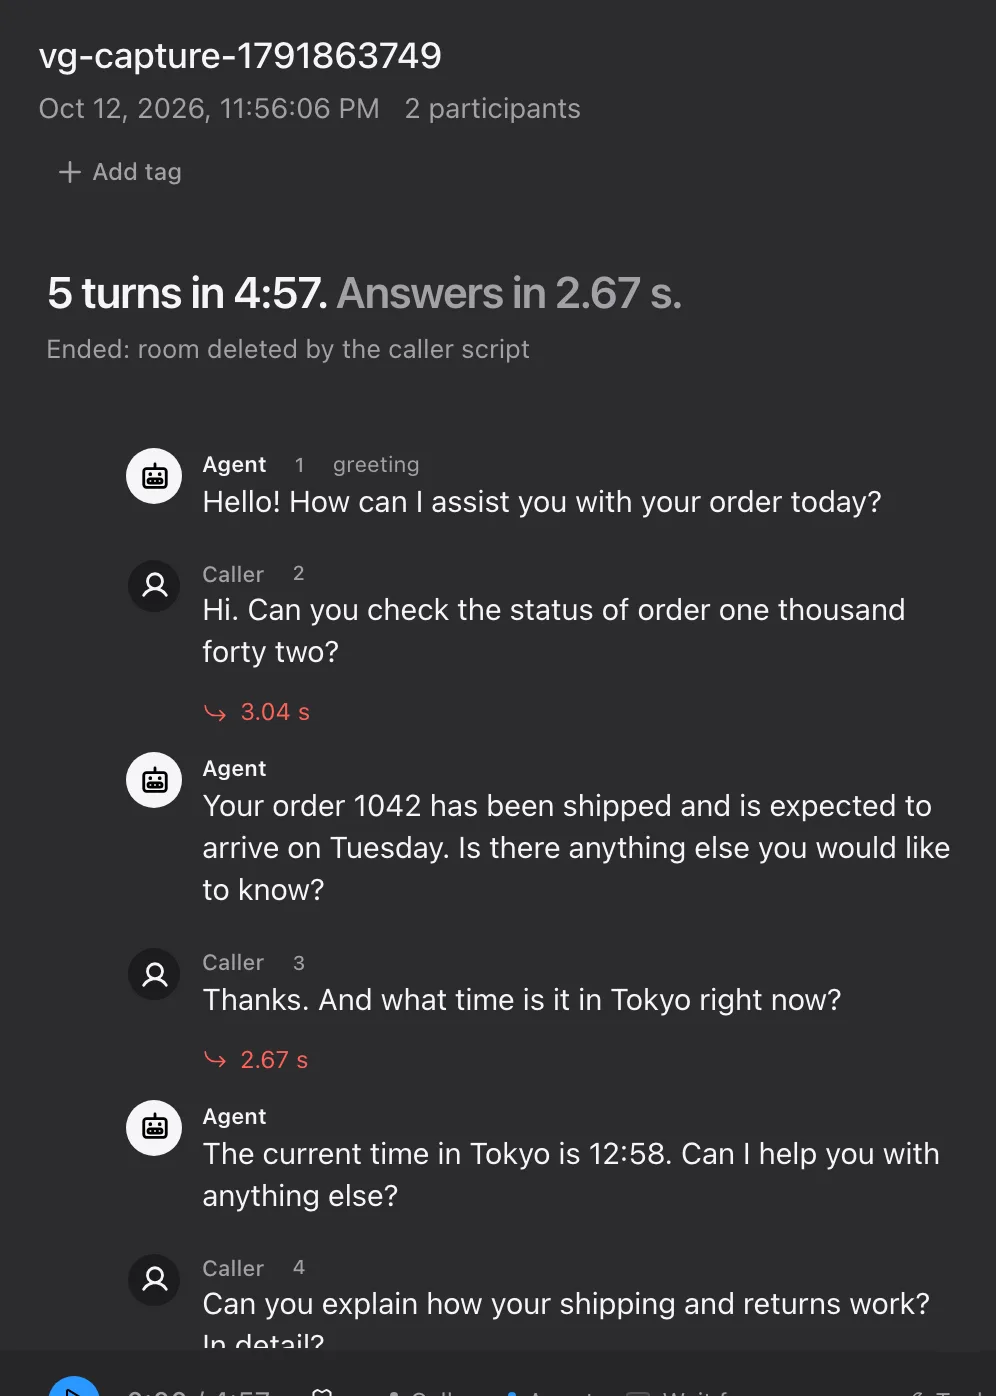
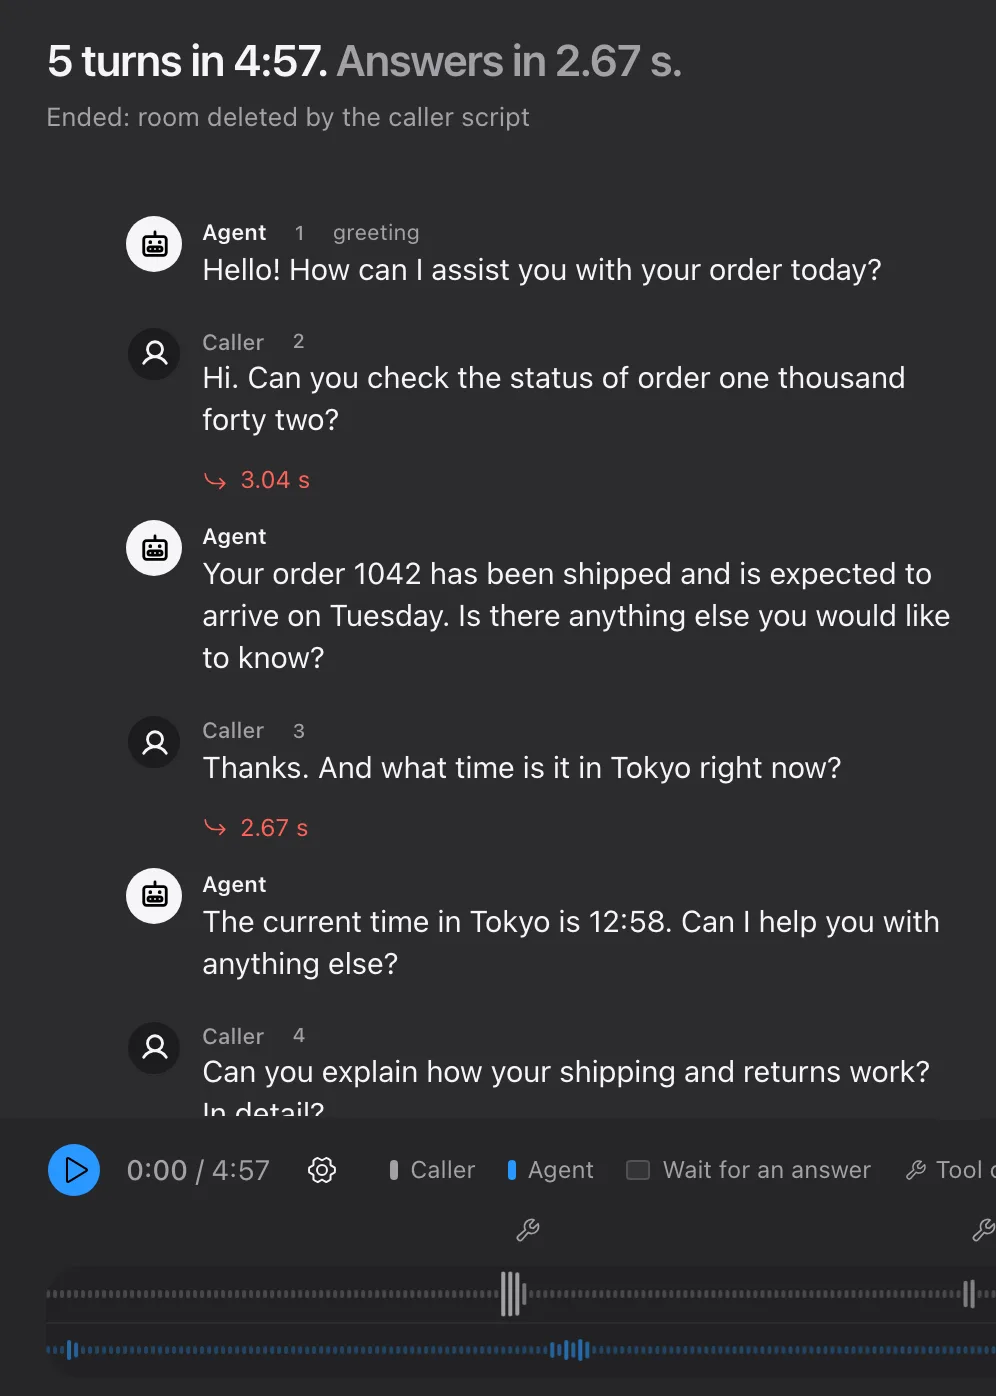
Name the reset help popover and tighten the sign-in capture

diff --git a/dashboard/src/features/auth/sign-in-screen.tsx b/dashboard/src/features/auth/sign-in-screen.tsx
@@ -81,13 +81,13 @@ export function SignInScreen({ needsAdmin, onSignedIn }: { needsAdmin: boolean; 
               {!needsAdmin && (
                 <Popover>
                   <PopoverTrigger asChild>
-                    <Button type="button" variant="link" size="xs" className="h-auto px-0 text-muted-foreground">
+                    <Button type="button" variant="link" size="sm" className="-mr-2.5 text-muted-foreground">
                       Forgot password?
                     </Button>
                   </PopoverTrigger>
-                  <PopoverContent align="end" className="w-72">
+                  <PopoverContent align="end" className="w-72" aria-labelledby="reset-help-title">
                     <PopoverHeader>
-                      <PopoverTitle>Ask an admin for a reset link</PopoverTitle>
+                      <PopoverTitle id="reset-help-title">Ask an admin for a reset link</PopoverTitle>
                       <PopoverDescription>An admin of your organisation can send you one from Settings, Members. It works for 24 hours.</PopoverDescription>
                     </PopoverHeader>
                   </PopoverContent>

diff --git a/dashboard/tests/sign-in.test.tsx b/dashboard/tests/sign-in.test.tsx
@@ -84,5 +84,6 @@ test("before the first admin exists, nobody is told to ask an admin", () => {
 test("forgot password says who sends a reset link", async () => {
   render(<SignInScreen needsAdmin={false} onSignedIn={vi.fn()} />)
   await userEvent.setup().click(screen.getByRole("button", { name: "Forgot password?" }))
-  expect((await screen.findByText(/Settings, Members/)).textContent).toContain("24 hours")
+  const help = await screen.findByRole("dialog", { name: "Ask an admin for a reset link" })
+  expect(help.textContent).toContain("24 hours")
 })
